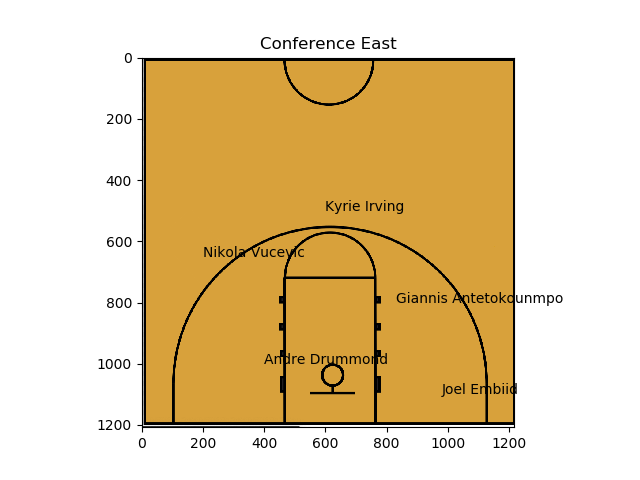
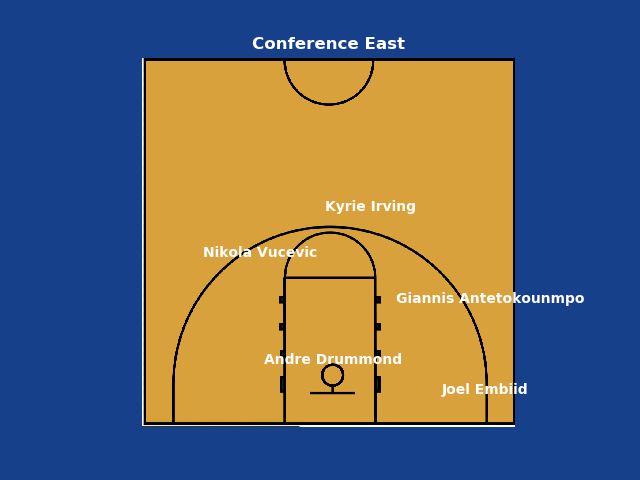
stylistic af frontend

diff --git a/src/Draft.js b/src/Draft.js
@@ -46,7 +46,7 @@ class Draft extends React.Component {
 					<div><label id = "5"></label></div>
 				</div>
 
-				<div className="draftDiv">
+				<div className="images">
 					<img src={ require('./East.png') } />
 				</div>
 
@@ -60,7 +60,7 @@ class Draft extends React.Component {
 				</div>
 
 
-				<div className="draftDiv">
+				<div className="images">
 					<img src={ require('./West.png') } />
 				</div>
 

diff --git a/src/Draft.css b/src/Draft.css
@@ -10,6 +10,12 @@ label {
 	
 }
 
+.images {
+	/* margin-bottom: 40px; */
+	background-color: #17408B;
+	
+}
+
 .main{
 
 	background-color: #17408B;
